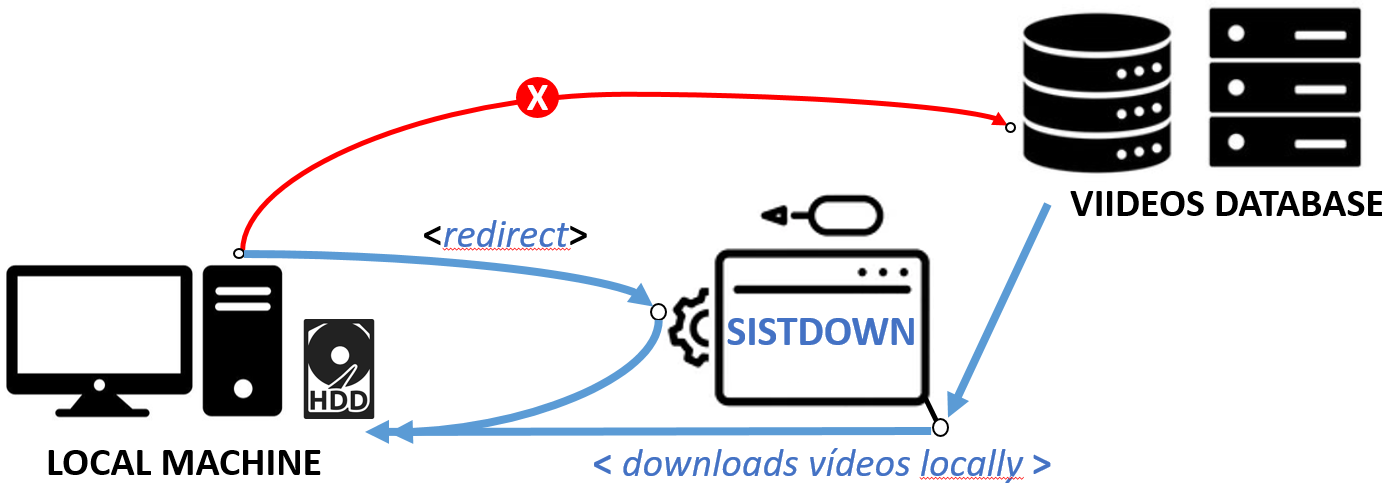
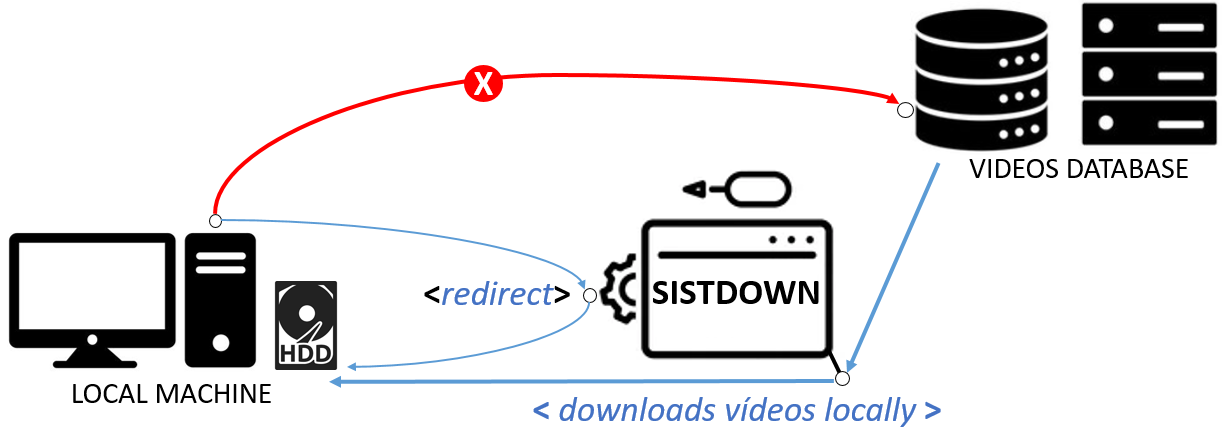
fix readme and image

Changed region(s): [[0.0, 0.0, 1.0, 0.9977], [0.1866, 0.3023, 0.2488, 0.4233]]

diff --git a/README.md b/README.md
@@ -1,11 +1,11 @@
 <h1 align="center">Sist-down</h1>
 
-<b>Sist-down</b> is a <b>Download Manager</b> and <b>Proxy Application</b> that was created to solve issues of intranet network infraestructure. This was a program created in one day to solve some of the internal network problems at DNIT (National Department of Infrastructure and Transport).
+<b>Sist-down</b> is a <b>Download Manager</b> and <b>Proxy Application</b> that was created to solve issues of intranet network infrastructure. This was a program created in one day to solve some of the internal network problems at DNIT (National Department of Infrastructure and Transport).
 
 The engineering team was facing difficulties visualizing and evaluating the products (images and videos) stored on the servers due to a high flow of requests. 
 
 Sist-down solved this problem by allowing videos and images to be scheduled for download and stored on each engineer's local machine, following their workflow and schedule, and taking into account each machine's local storage capacity.
-how-it-works.png
+
 
 ![how-it-works](https://github.com/victordalosto/sist-down/blob/master/documentation/assets/how-it-works.png?raw=true)
 
@@ -24,6 +24,3 @@ To use Sist-down, the engineering team would open the application, which prompts
 Once the roads are selected, Sist-down schedules the download of the corresponding videos from the database and stores them on the engineer's local machine. From that point on, the application works as a proxy, redirecting the calls from the original content to the locally stored content, which allows for faster and smoother analysis.
 
 The application's easy-to-use interface and streamlined functionality make it a reliable tool for engineering teams looking to improve their workflow and productivity. With Sist-down, the engineering team can efficiently analyze road conditions and make informed decisions without worrying about server overload or download speed issues.
-
-
-
